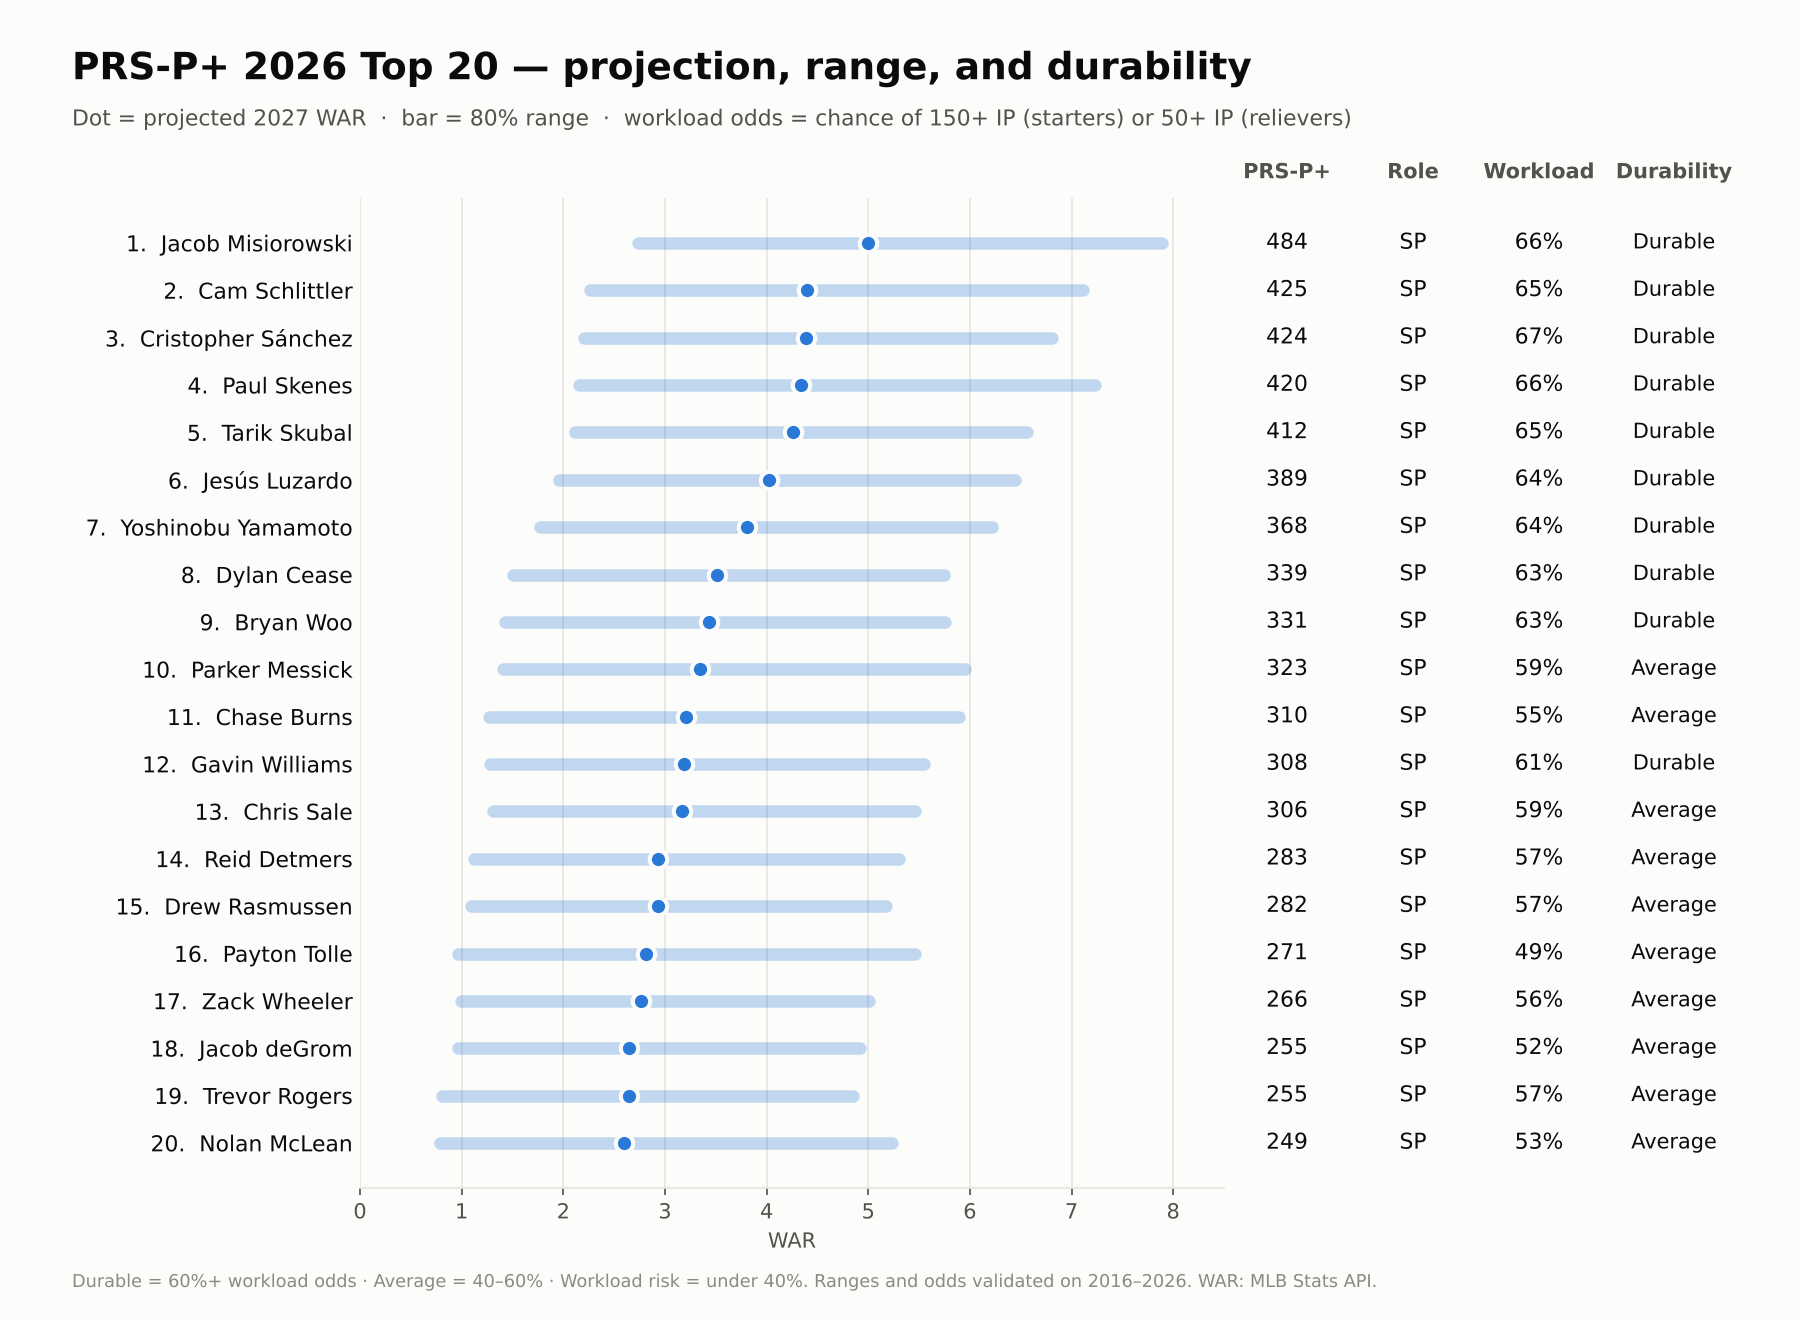
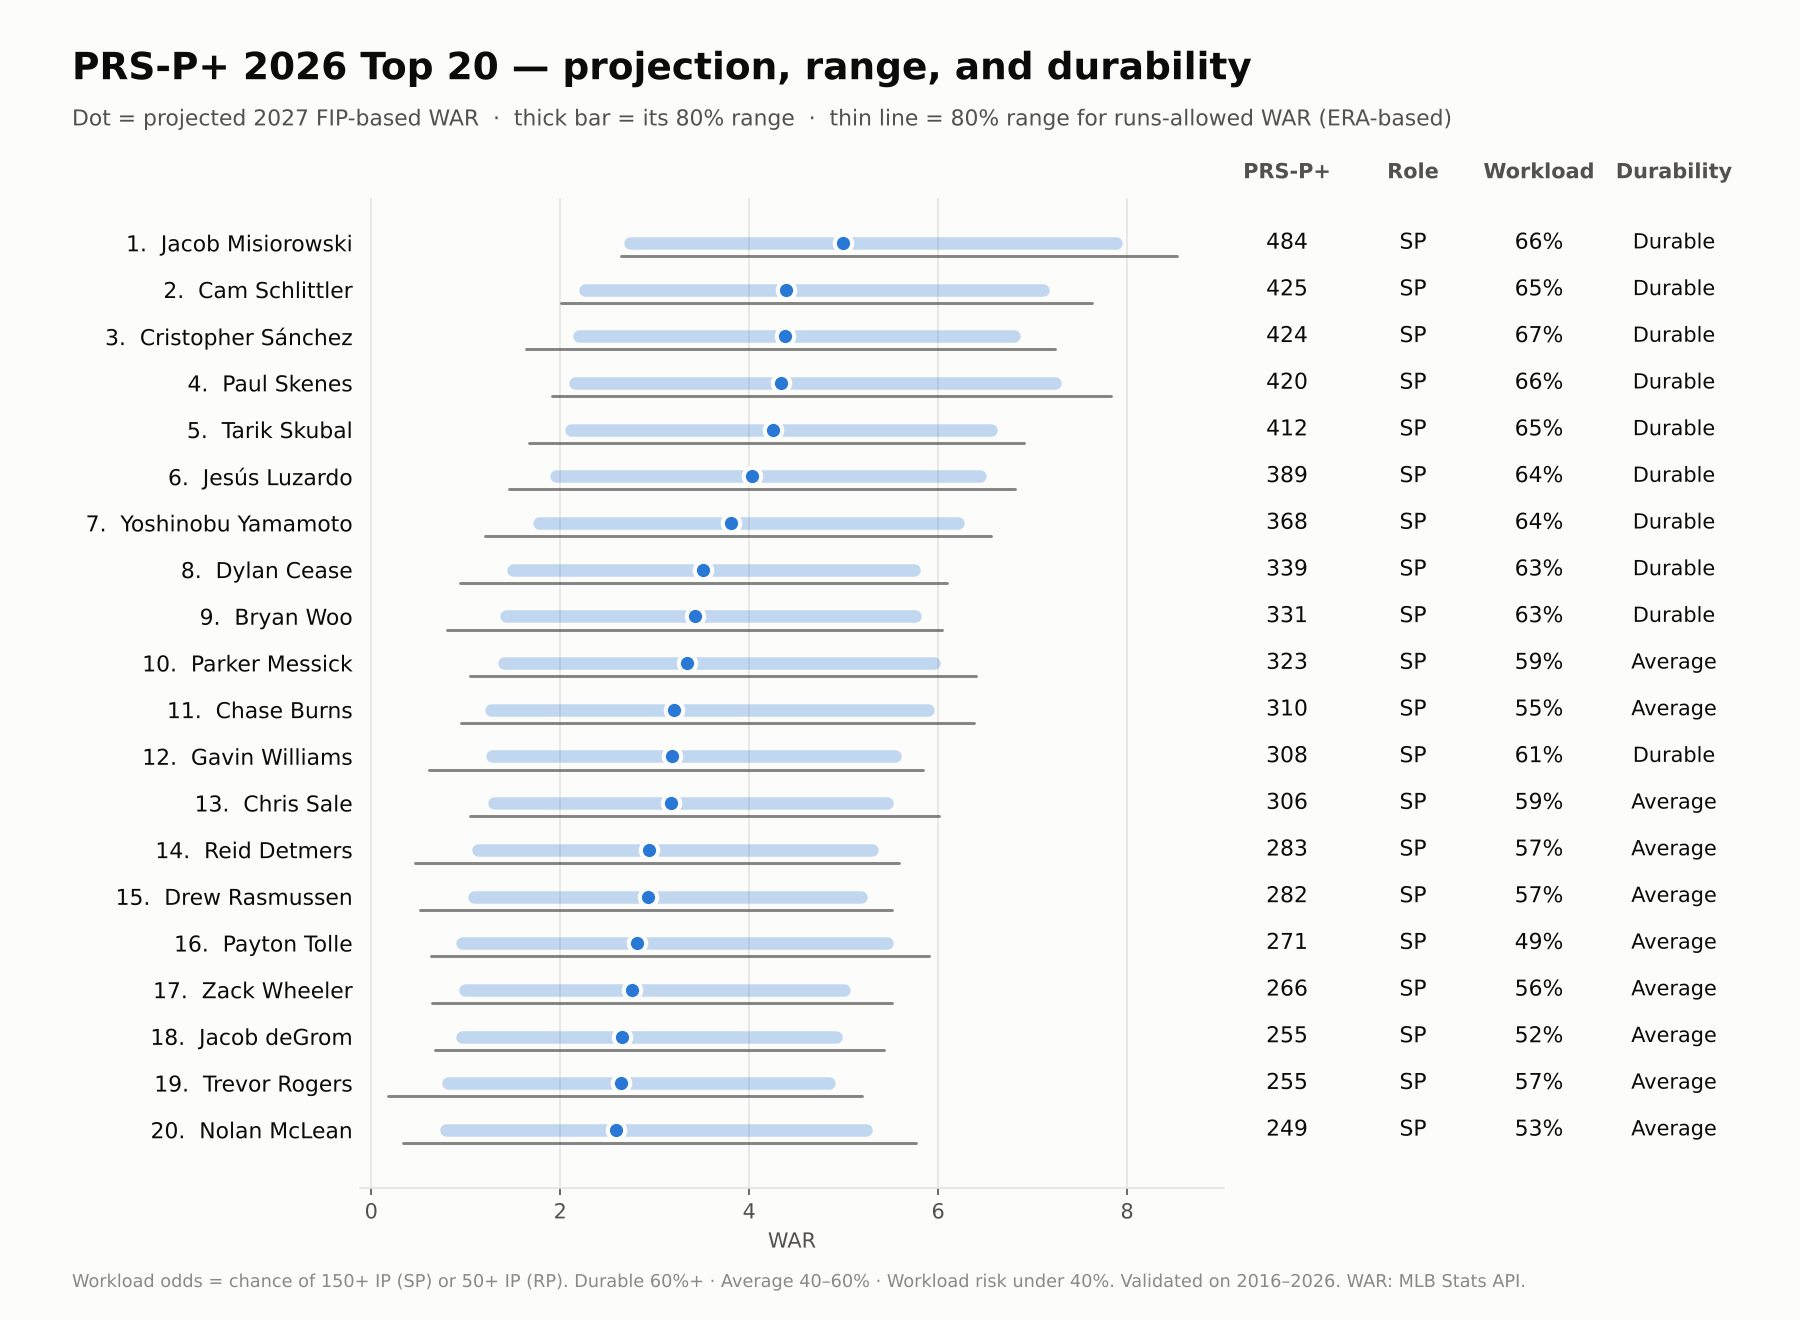
PRS-P+: label FIP-based WAR, add runs-allowed range, 2026 report card
- PRS README: 'Which WAR?' note (FIP-based vs runs-allowed, Skenes 2026
  example), runs-allowed 80% range (78.7% coverage on 2016-26), 2026
  report card graded on both WAR types
- Charts: pitcher risk chart adds runs-allowed range line; FIP-based
  labels on all pitcher charts
- README summary; STATUS.md

Claude-Session: https://claude.ai/code/session_015YDihW75QbFBqSqo9e9Z9f

diff --git a/prs/PRS_README.md b/prs/PRS_README.md
@@ -103,6 +103,8 @@ rank  name                 age   PRS+   proj. WAR   80% range    500+ PA   durab
 
 The same idea for pitchers: **how good he is × how many innings he delivers**, on an index where **100 = an average MLB pitcher in a regular role** (the top 300, 10 per team). Every 100 points is roughly **1.0 projected WAR**.
 
+> **Which WAR?** PRS-P+ projects **FIP-based WAR** (the MLB Stats API's pitching WAR), which credits strikeouts, walks, and home runs — the outcomes a pitcher controls — and mostly ignores runs that score on balls in play. It's the standard target for pitcher projections because it's steadier year to year. It is **not** the same as ERA. Paul Skenes in 2026 posted 4.2 FIP-based WAR (12th among pitchers) but only 3.0 runs-allowed WAR (33rd) after his ERA rose from 1.97 to 3.82. That's why every pitcher also gets a separate range for runs-allowed WAR (below).
+
 - **Pitcher quality** — strikeout rate, walk rate, and overall pitching value per batter faced over the last two seasons (pitchers change fast, so the most recent season counts three times as much and older seasons don't help), plus translated minor-league strikeout rates for young arms and an age curve.
 - **Availability** — innings over the last two seasons, skipping pre-debut seasons, with a role bonus for starters (who pile up innings).
 
@@ -112,13 +114,13 @@ The same idea for pitchers: **how good he is × how many innings he delivers**, 
 
 | Test seasons 2016–2026 (11 seasons) | **PRS-P+** | Marcel | Last year's WAR |
 |---|---|---|---|
-| Correlation with actual WAR (r) | **0.633** | 0.622 | 0.592 |
+| Correlation with actual WAR (r), FIP-based | **0.633** | 0.622 | 0.592 |
 | Average miss (WAR) | **0.58** | 0.61 | 0.64 |
 | Within 1 WAR of actual | **80.9%** | 79.3% | 78.5% |
 | Top 25 that finished top 50 in WAR | **15.8** | 15.1 | 14.5 |
 | Seasons PRS-P+ beat Marcel (r / average miss) | — | 10 of 11 / 11 of 11 | — |
 
-<sub>~530–690 pitchers per season with 50+ innings over the prior three seasons. Target: MLB Stats API pitching WAR (2020 scaled to 162 games).</sub>
+<sub>~530–690 pitchers per season with 50+ innings over the prior three seasons. Target: MLB Stats API pitching WAR, which is FIP-based (2020 scaled to 162 games).</sub>
 
 - PRS-P+ beats Marcel for **both starters (r 0.60 vs 0.58) and relievers (0.44 vs 0.38)** — relievers are harder to project for everyone, but that's where PRS-P+ gains the most.
 - **Little age bias:** Marcel underrates pitchers 25 and under (+0.17 WAR) and overrates those 35+ (−0.18); PRS-P+ stays within ±0.05 at every age.
@@ -142,6 +144,27 @@ Tested on 2016–2026, with each season built only from earlier seasons:
 - **Workload odds match reality** for both roles — relievers given 48% reached 50 IP 49% of the time; starters given 33% reached 150 IP 35% of the time. Starter innings have been falling for years, so the odds are recalibrated each season on the most recent three, separately for starters and relievers.
 - **Durability separates workload:** Durable starters reached 150 IP 61% of the time (median 172 IP the next season) vs. 27% for Workload-risk starters (median 103 IP).
 - As with hitters, durability predicts **innings, not performance** — it doesn't tell you who will underperform their WAR forecast.
+
+### Runs-allowed range
+
+Because ERA-based results swing more than FIP-based ones, each pitcher also gets an **80% range for runs-allowed WAR** (RA9-WAR — WAR built from the runs that actually scored). It's centered on the same projection, sized and tested the same way, and it's about 28% wider than the FIP-based range. In the 2026 top 20 chart above it's the thin line under each bar.
+
+- **2016–2026 test:** 78.7% of runs-allowed outcomes landed inside (starters 78%, relievers 79%). The small group of aces projected 2.5+ WAR came in narrow at 74%.
+- **Judged on runs allowed,** PRS-P+ still edges Marcel over the 11 test seasons (r 0.553 vs. 0.545), though the margin is thin.
+
+### 2026 report card
+
+Preseason 2026 projections, built only from data through 2025, compared with what happened:
+
+| 2026 season | PRS-P+ | Marcel | Last year's WAR |
+|---|---|---|---|
+| Correlation with FIP-based WAR | **0.625** | 0.610 | 0.598 |
+| Correlation with runs-allowed WAR | 0.519 | 0.519 | — |
+| Average miss (FIP-based WAR) | **0.55** | 0.60 | 0.61 |
+| Inside the 80% range | 79% (FIP-based) · 78% (runs-allowed) | — | — |
+
+- **Hits:** Cristopher Sánchez (projected 4.2, actual 6.2), Tarik Skubal (5.3 → 5.2), Yoshinobu Yamamoto (3.6 → 4.7).
+- **Misses:** the preseason #1, Paul Skenes (5.5 → 4.2 FIP-based, 3.0 runs-allowed — just under his runs-allowed floor); injured aces Garrett Crochet (30 IP) and Hunter Greene (28 IP); and young breakouts the model was too cautious on — Jacob Misiorowski (1.3 → 6.6) and Cam Schlittler (1.3 → 6.2).
 
 ## Tech Stack
 

diff --git a/STATUS.md b/STATUS.md
@@ -6,7 +6,7 @@ Public sports analytics portfolio: PRS+ (README and charts only; code kept priva
 
 ## Last change
 
-2026-10-09 — Graded preseason 2026 PRS-P against the actual 2026 season (r 0.625 vs Marcel 0.610; 79% of outcomes inside 80% ranges). Built a private PRS+ Dashboard on claude.ai (https://claude.ai/artifact/Dux6TFRtAHzz3oYBr9ZJ5j): Hitters and Pitchers tabs (2027 rankings, 80% ranges, durability, searchable tables) and an Accuracy tab (21-season backtest vs Marcel, range coverage, playing-time odds). Built from PRS outputs only, no formula. (2026-10-08: PR #2 merged — PRS-P+ with risk ranges.)
+2026-10-09 — Graded preseason 2026 PRS-P against the 2026 season; found the FIP-based vs runs-allowed WAR gap (Skenes: 4.2 vs 3.0). Labeled PRS-P as FIP-based everywhere and added a validated 80% runs-allowed WAR range (78.7% coverage 2016–26). PRS README: "Which WAR?" note, runs-allowed range, 2026 report card; charts relabeled. Dashboard updated with both ranges.
 
 ## Next step
 

diff --git a/README.md b/README.md
@@ -23,7 +23,8 @@ how good a player is × how much he actually plays, on an index
 where 100 = an average MLB regular. Backtested over 21 seasons:
 on the 11 seasons it was never tuned on, PRS+ beats the Marcel
 projection system in 9 (r = 0.669 vs 0.644 against next-season WAR).
-Pitcher version **PRS-P+** beats Marcel in 10 of 11 unseen seasons,
+Pitcher version **PRS-P+** (projects FIP-based WAR, with a separate
+range for runs-allowed WAR) beats Marcel in 10 of 11 unseen seasons,
 with a smaller average miss in all 11.
 
 📁 [/prs](./prs)
